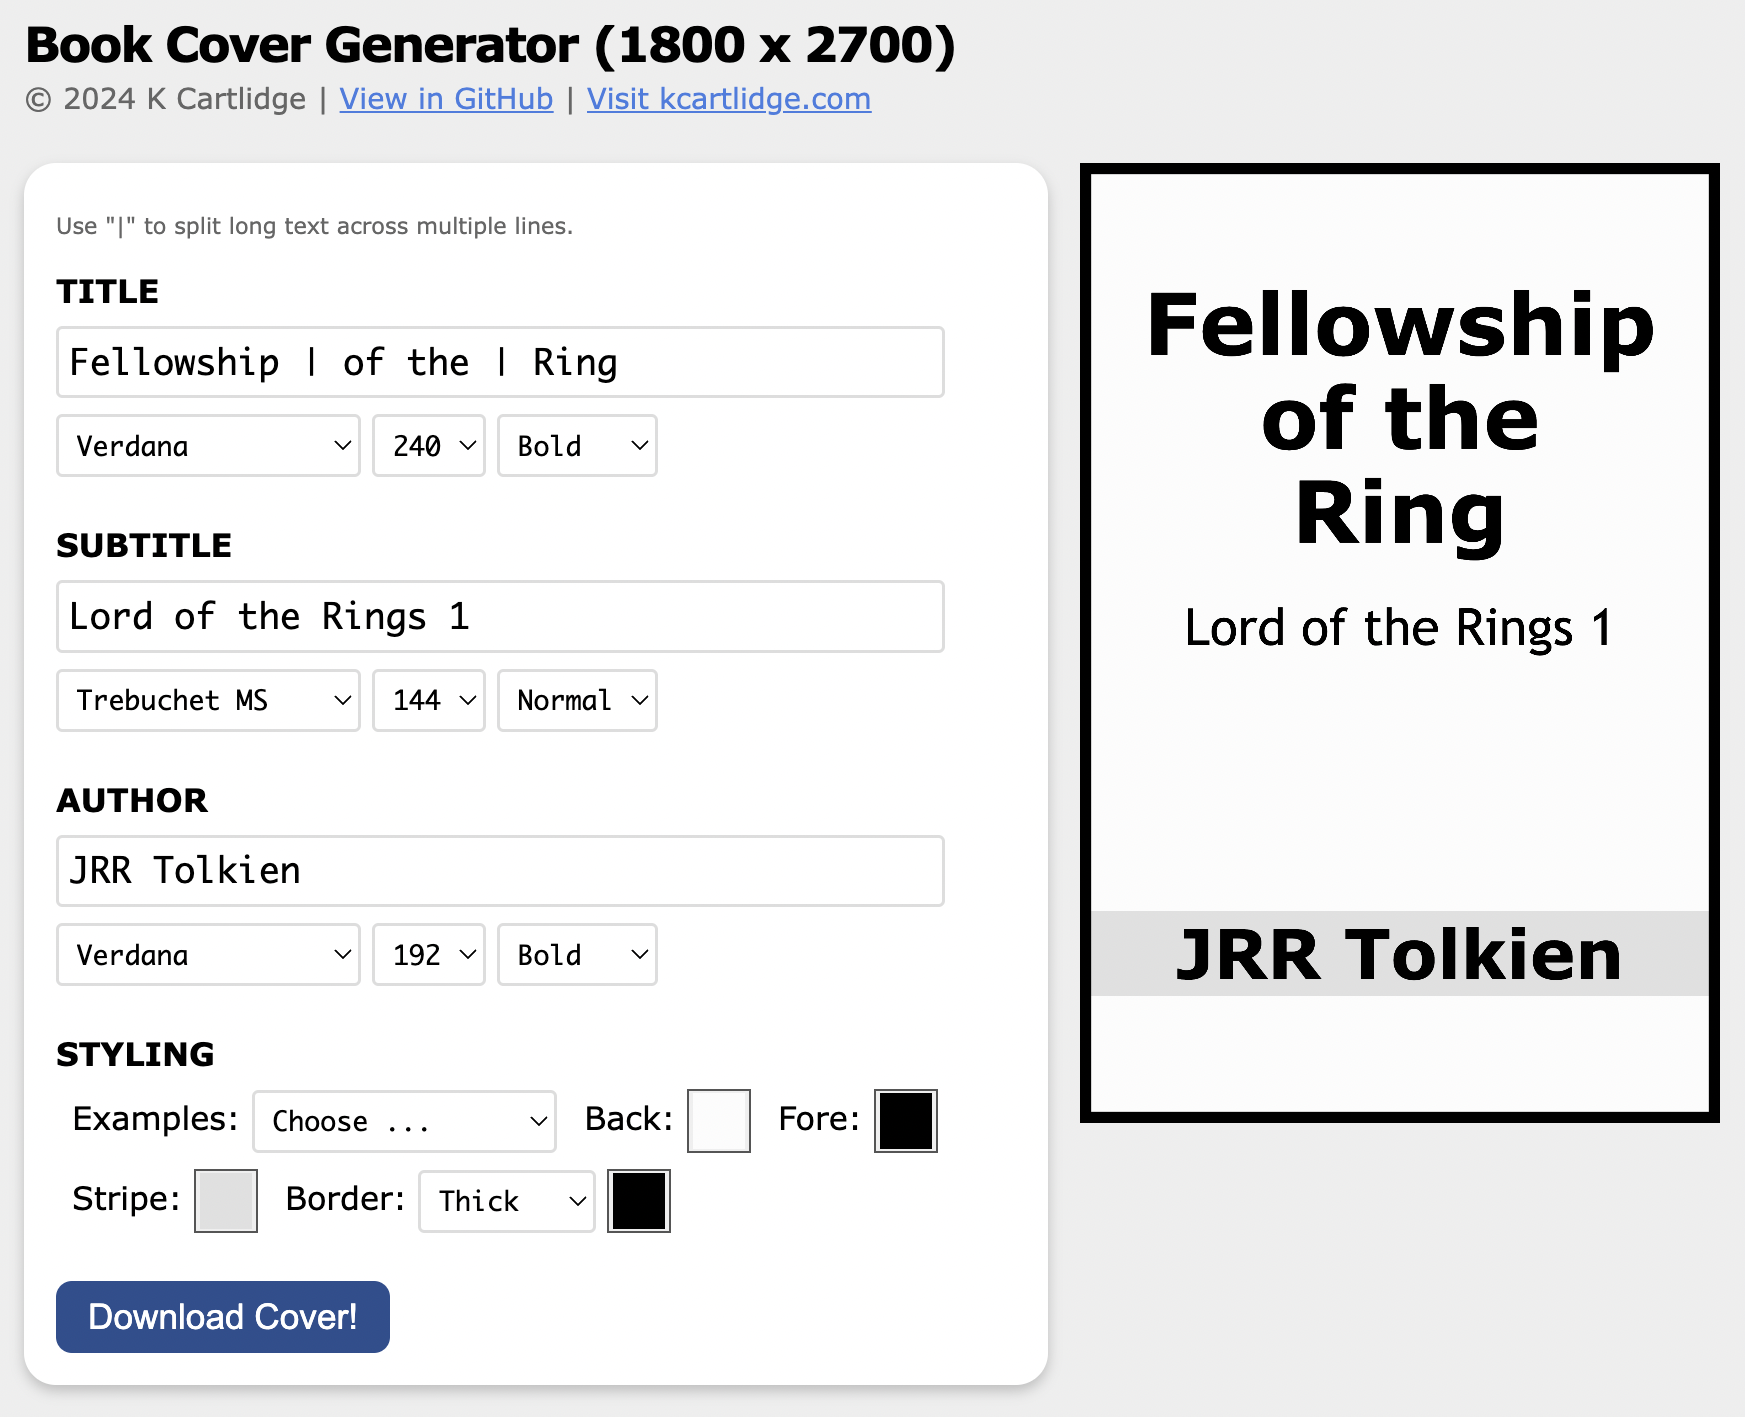
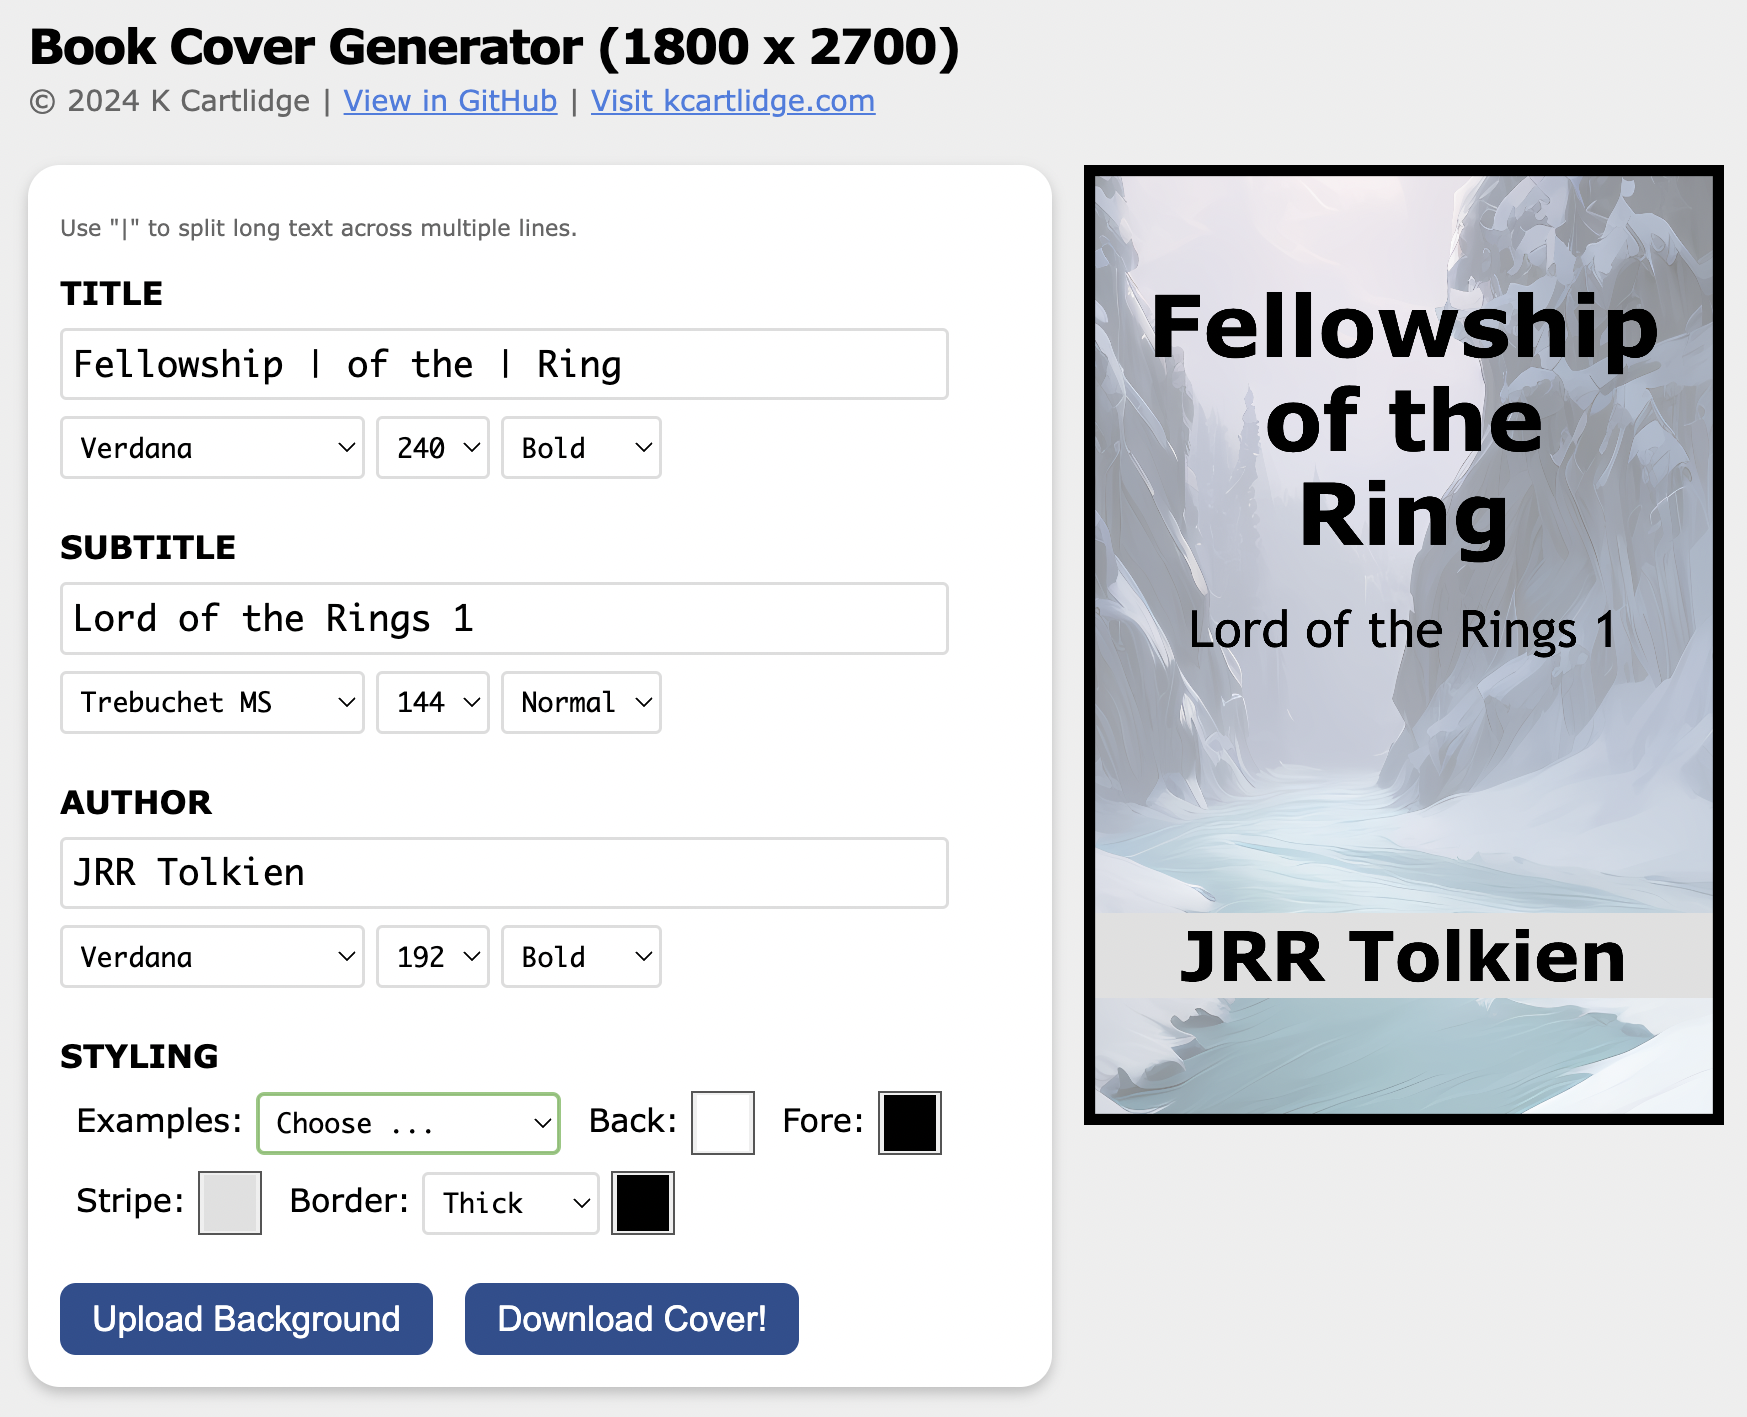
Optional background image support

diff --git a/index.html b/index.html
@@ -314,6 +314,7 @@
                     </div>
                 </div>
                 <div class="button-row">
+                    <button id="addBackgroundBtn">Upload Background</button>
                     <button onclick="downloadCover()">Download Cover!</button>
                 </div>
             </div>
@@ -367,6 +368,13 @@
             // Clear canvas with selected background color
             ctx.fillStyle = backgroundColor;
             ctx.fillRect(0, 0, canvas.width, canvas.height);
+
+            // Draw background image if it exists, with 50% transparency
+            if (backgroundImage) {
+                ctx.globalAlpha = 0.5;  // Set transparency to 50%
+                ctx.drawImage(backgroundImage, 0, 0, canvas.width, canvas.height);
+                ctx.globalAlpha = 1.0;  // Reset transparency for other elements
+            }
 
             // Set text color to foreground color
             ctx.fillStyle = foregroundColor;
@@ -473,6 +481,27 @@
             'borderWidth'].forEach(id => {
                 document.getElementById(id).addEventListener('input', drawCover);
             });
+
+        let backgroundImage = null;
+
+        document.getElementById('addBackgroundBtn').addEventListener('click', function () {
+            const input = document.createElement('input');
+            input.type = 'file';
+            input.accept = 'image/*';
+            input.onchange = function (event) {
+                const file = event.target.files[0];
+                const reader = new FileReader();
+                reader.onload = function (e) {
+                    backgroundImage = new Image();
+                    backgroundImage.onload = function () {
+                        drawCover();
+                    }
+                    backgroundImage.src = e.target.result;
+                }
+                reader.readAsDataURL(file);
+            }
+            input.click();
+        });
 
         // Initial draw
         drawCover();

diff --git a/README.md b/README.md
@@ -1,6 +1,6 @@
 # book-cover
 
-Stand-alone web page to generate very simple text-only book covers as 1800x2700 PNGs.
+Stand-alone web page to generate very simple book covers as 1800x2700 PNGs. Supports title, subtitle, author, colours, fonts, and an optional background image.
 
 Useful if, for example, you're adding a large number of books to Calibre and don't have the time to find decent cover images for them all at once.
 
@@ -9,6 +9,9 @@ Useful if, for example, you're adding a large number of books to Calibre and don
 - Update the title, subtitle, and author
 - Set your font choices
 - Choose some colours (or an example)
+- Optionally upload a background image
+    - Should be 1800x2700 pixels
+    - Currently displayed at 50% opacity
 - Hit the `Download Cover!` button
 
 [MIT license](./LICENSE)
